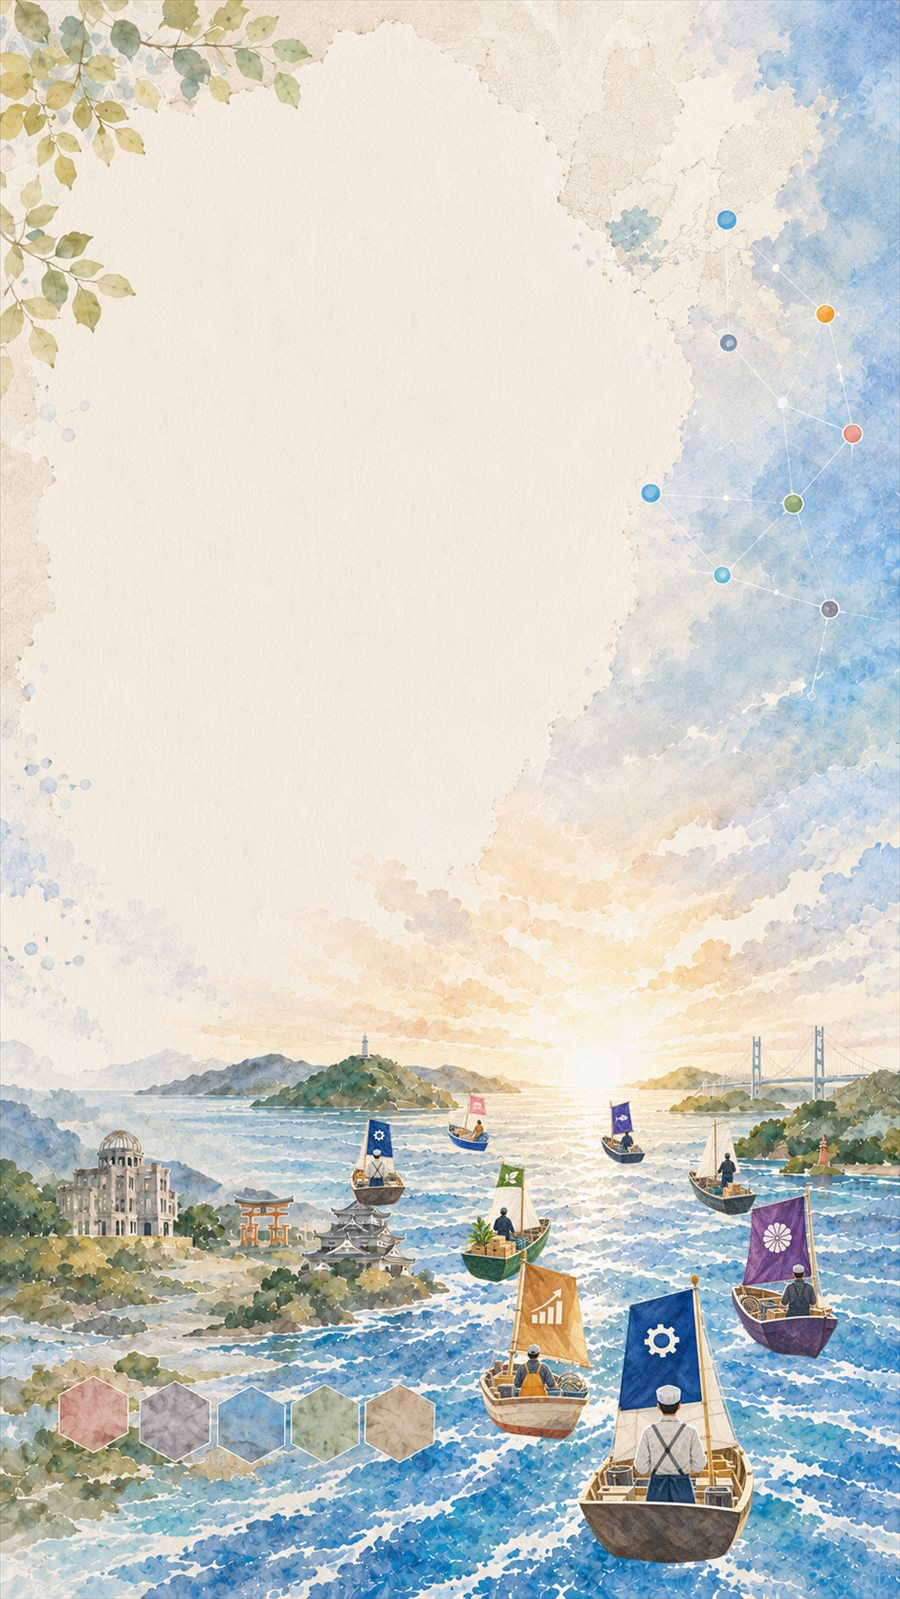
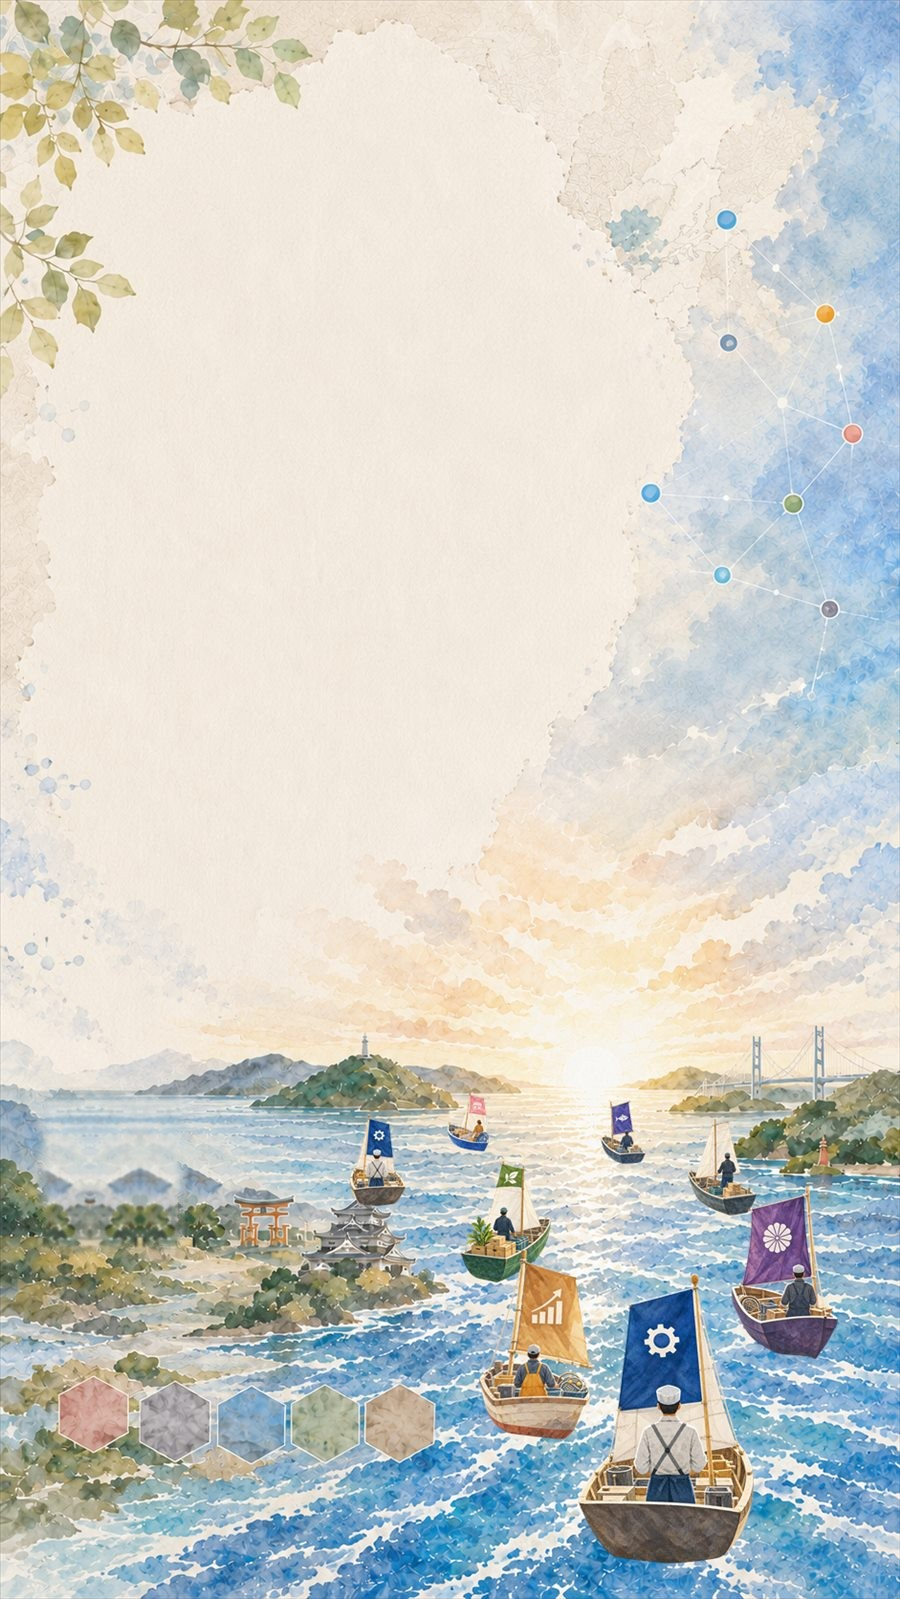
原爆ドームを絵から消す（利用権利が得られなかったため）
依頼主の指示（2026-09-10）。ページのどの絵にも原爆ドームが写らないように、
周囲の地形で塗りつぶした。鳥居と広島城はそのまま。

消したのは6枚。
・backgrounds/hero-scene-wide.jpg  x 24〜180, y 635〜780
・backgrounds/hero-night-wide.jpg  同じ（構図が同一）
・backgrounds/hero-mobile.jpg      x 50〜182, y 1130〜1241
・backgrounds/hero-night-mobile.jpg x 55〜195, y 1128〜1250
・icons/hub/pref.webp   絵の全部。庁舎のアイコンから作り直した
・icons/hub/center.webp x 28〜80, y 104〜134 の小さな構造物

やり方と、途中で分かったこと:
・地形の帯は場所で高さが違う。横の絵はドームの右で山687・木717、移植元
  （x330〜500）で山735・木765と48pxずれる。1列ずつ違う量だけ縦にずらして
  （左80px・右56px）傾きを合わせた。
・稜線のある帯を鏡像タイルで敷き詰めると、規則的な波と階段状の段差が出る。
  山は移植、木立は敷き詰め、と帯ごとに分けた。
・左右の列から横に補間して埋める方法は、横縞の滲みになって失敗した。
・縦の絵では、ドナーに鳥居が入っていて鳥居が3つに増えた。朱色を検出して
  左端が x=241 と分かったので、その手前で切り直した。
・仕上がりは実際の表示倍率で確認した。スマホは900pxの絵を430pxで出すので、
  原寸で見える細かな反復は見えない。

tools/webp-bridge.js が .jpg も受け取れるようにした（ヒーローがJPEGのため）。
中身の検査も形式ごとに分けてある。

検証: 390/834/900/1000/1280/1440 の昼夜12通りで verify-all 合格。
横長・縦長の両方の絵でドームが無いことを目で確認した。

Changed region(s): [[0.0311, 0.6742, 0.2178, 0.7967]]

diff --git a/tools/webp-bridge.js b/tools/webp-bridge.js
@@ -15,7 +15,7 @@
    安全のための約束:
    - 127.0.0.1 でしか待ち受けない（外から触れない）
    - 書ける場所は assets/img/ の下だけ。.. を含む名前は拒む
-   - 拡張子は .webp だけ
+   - 拡張子は .webp と .jpg だけ（ヒーローの背景がJPEGなので後から足した）
 */
 'use strict';
 
@@ -40,7 +40,8 @@ const server = http.createServer(function (req, res) {
   const target = path.resolve(ROOT, name);
 
   /* 受け取った名前をそのまま信用しない。assets/img の外へは書かない。 */
-  if (!name || name.includes('..') || !target.startsWith(ROOT) || !target.endsWith('.webp')) {
+  const okExt = target.endsWith('.webp') || target.endsWith('.jpg');
+  if (!name || name.includes('..') || !target.startsWith(ROOT) || !okExt) {
     res.writeHead(400); res.end('bad name'); return;
   }
 
@@ -48,9 +49,14 @@ const server = http.createServer(function (req, res) {
   req.on('data', function (c) { chunks.push(c); });
   req.on('end', function () {
     const buf = Buffer.concat(chunks);
-    /* 中身がWebPであることを確かめてから書く（RIFF....WEBP） */
-    if (buf.length < 16 || buf.slice(0, 4).toString() !== 'RIFF' || buf.slice(8, 12).toString() !== 'WEBP') {
-      res.writeHead(400); res.end('not webp'); return;
+    /* 中身が本当にその形式かを確かめてから書く。
+       WebP は RIFF....WEBP、JPEG は FF D8 で始まり FF D9 で終わる。 */
+    const isWebp = buf.length >= 16 && buf.slice(0, 4).toString() === 'RIFF'
+                && buf.slice(8, 12).toString() === 'WEBP';
+    const isJpeg = buf.length >= 4 && buf[0] === 0xFF && buf[1] === 0xD8
+                && buf[buf.length - 2] === 0xFF && buf[buf.length - 1] === 0xD9;
+    if (!(target.endsWith('.webp') ? isWebp : isJpeg)) {
+      res.writeHead(400); res.end('中身が拡張子と合わない'); return;
     }
     fs.mkdirSync(path.dirname(target), { recursive: true });
     fs.writeFileSync(target, buf);
@@ -60,5 +66,5 @@ const server = http.createServer(function (req, res) {
 });
 
 server.listen(PORT, '127.0.0.1', function () {
-  console.log('WebPの受け取り口: http://127.0.0.1:' + PORT + '/save?name=<相対パス>.webp');
+  console.log('画像の受け取り口: http://127.0.0.1:' + PORT + '/save?name=<相対パス>.webp|.jpg');
 });

diff --git a/README_画像について.md b/README_画像について.md
@@ -316,3 +316,26 @@ HTMLに1行足し、CSSに位置を1行足してください。
 - 表示は 1200px 以上でのみ。それ未満は従来の丸アイコン
   `assets/img/icons/flow/hub-*.webp` を `<picture>` の `<img>` 側で使う。
 - 変換はブラウザのエンコーダ（品質0.92）＋ `tools/webp-bridge.js`。
+
+## 原爆ドームを消した（2026-09-10）
+
+利用権利が得られなかったため、**ページのどの絵にも原爆ドームは写っていない**
+（依頼主 2026-09-10）。差し替え・作り直しのときは必ず確認すること。
+鳥居と広島城はそのまま使ってよい。
+
+消したのは次の6枚。周囲の地形（山・木立・海）で塗りつぶしてある。
+
+| ファイル | 元の位置 |
+|---|---|
+| backgrounds/hero-scene-wide.jpg | x 24〜180, y 635〜780 |
+| backgrounds/hero-night-wide.jpg | 同じ |
+| backgrounds/hero-mobile.jpg | x 50〜182, y 1130〜1241 |
+| backgrounds/hero-night-mobile.jpg | x 55〜195, y 1128〜1250 |
+| icons/hub/pref.webp | 絵の全部。庁舎のアイコン（icons/flow/hub-hiroshima.webp）から作り直した |
+| icons/hub/center.webp | x 28〜80, y 104〜134 の小さな構造物 |
+
+元の絵（ドーム入り）は依頼主の手元にある完成イメージのみ。**このリポジトリ
+には残していない。**
+
+書き出しは JPEG 品質0.9（横 331KB / 324KB、縦 304KB / 373KB）。
+`tools/webp-bridge.js` は `.jpg` も受け取れるようにしてある。
